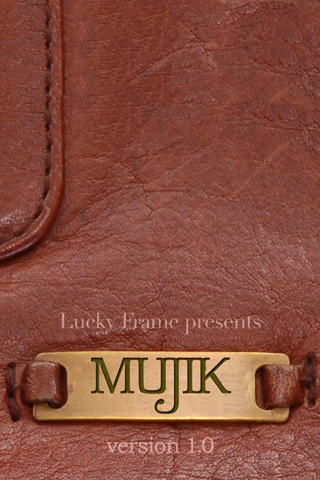
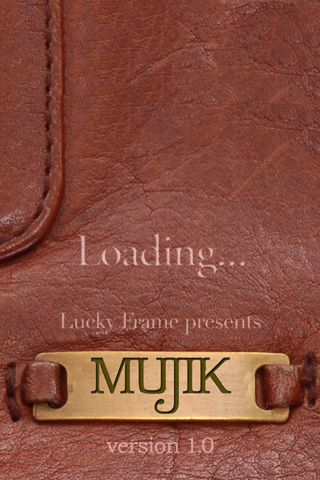
changed the way things are loaded (initial run states) changed the main screen changed the info screen removed a NSLog that was slowing the app down.

diff --git a/src/parentModel.m b/src/parentModel.m
@@ -27,10 +27,18 @@
 		[gridModels addObject:[[gridModel alloc]init]];
 	}
 	for(int i=0;i<3;i++){
-		[volumes addObject:[NSNumber numberWithInt:10]];
-		[mutes addObject:[NSNumber numberWithBool:NO]];
+		[volumes addObject:[NSNumber numberWithInt:128]];
+		[mutes addObject:[NSNumber numberWithBool:YES]];
 		[directions addObject:[NSNumber numberWithBool:YES]];
-		[currentSamples addObject:[NSNumber numberWithInt:i]];
+		if(i==0){
+			[currentSamples addObject:[NSNumber numberWithInt:4]];
+		}
+		if(i==1){
+			[currentSamples addObject:[NSNumber numberWithInt:0]];
+		}
+		if(i==2){
+			[currentSamples addObject:[NSNumber numberWithInt:6]];
+		}
 	}
 	currentGrid = [NSNumber numberWithInt:0];
 	return self;

diff --git a/src/RemoteIOPlayer.m b/src/RemoteIOPlayer.m
@@ -128,7 +128,6 @@ static OSStatus playbackCallback(void *inRefCon,
 					if([samplePlayer.controllers objectForKey:@"note"] != nil){	
 						[samplePlayer setNote:[[samplePlayer.controllers objectForKey:@"note"] getStep:currentTick]];
 					}
-					NSLog(@"Start Percent: %f End Percent: %f", startPercentage, endPercentage);
 					[samplePlayer setLoopOffsetStartPercentage:startPercentage endPercentage:endPercentage];
 					[samplePlayer reset];					
 				}
